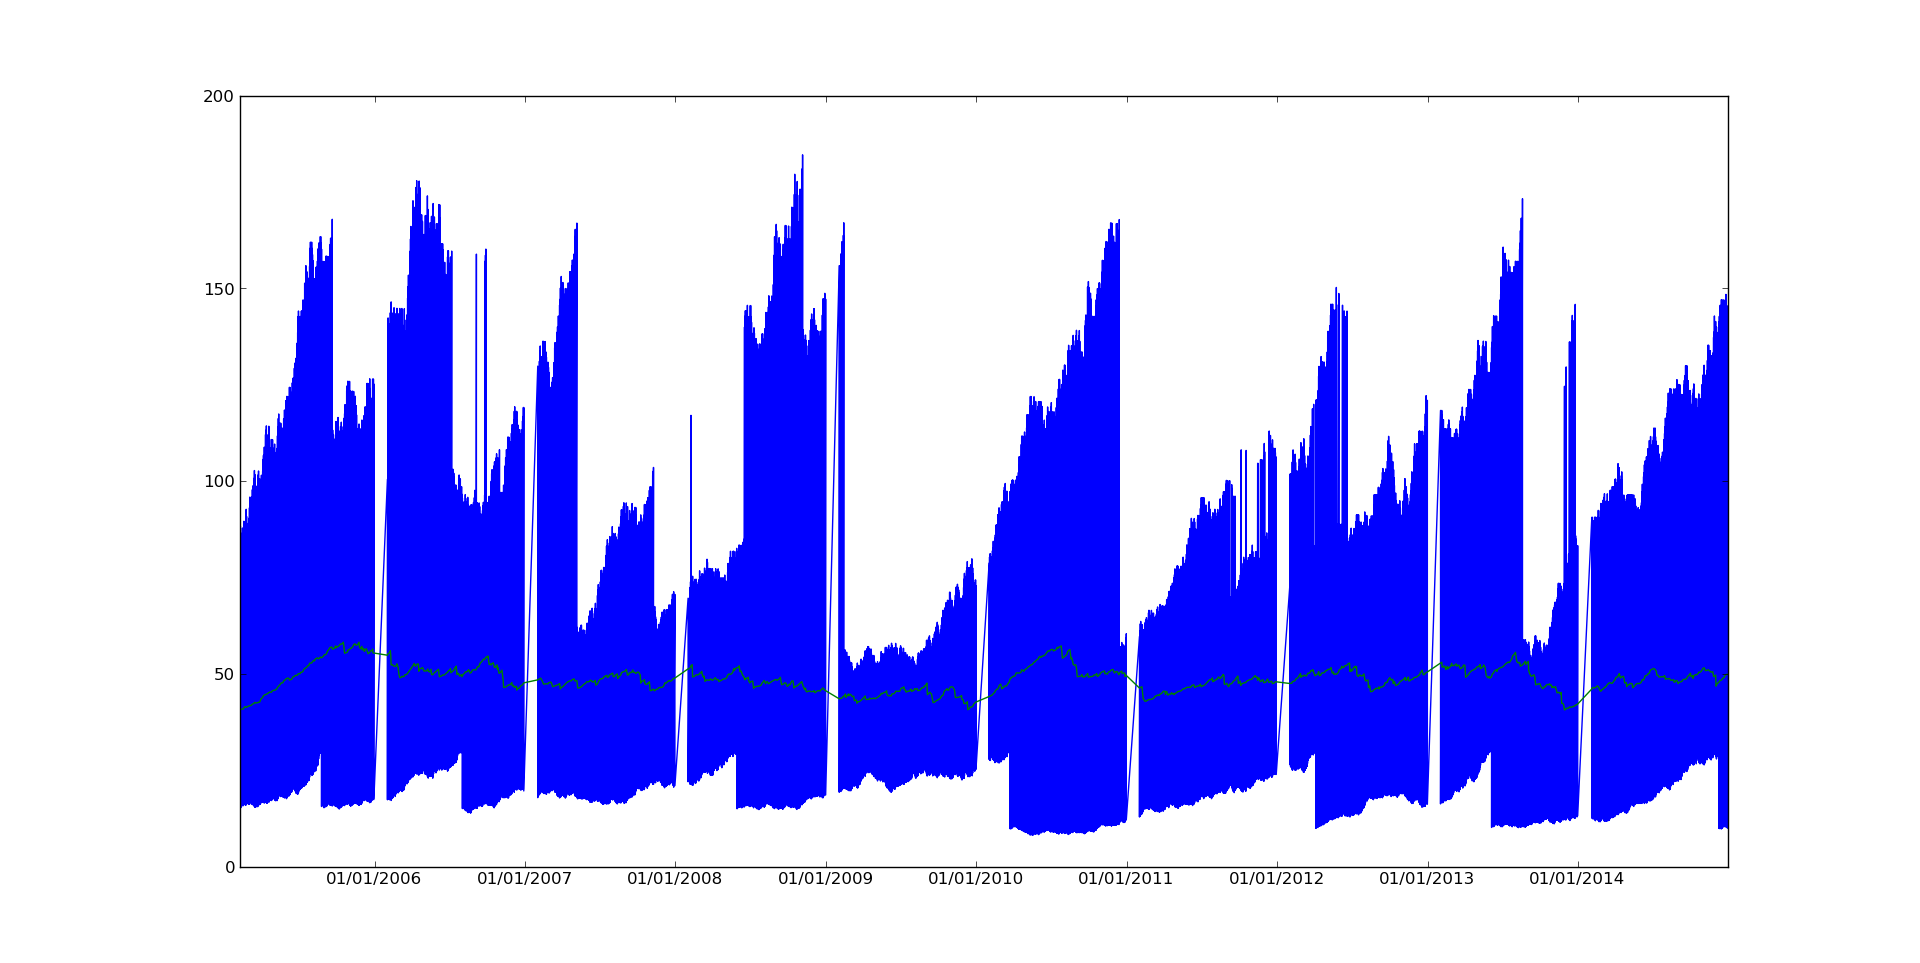
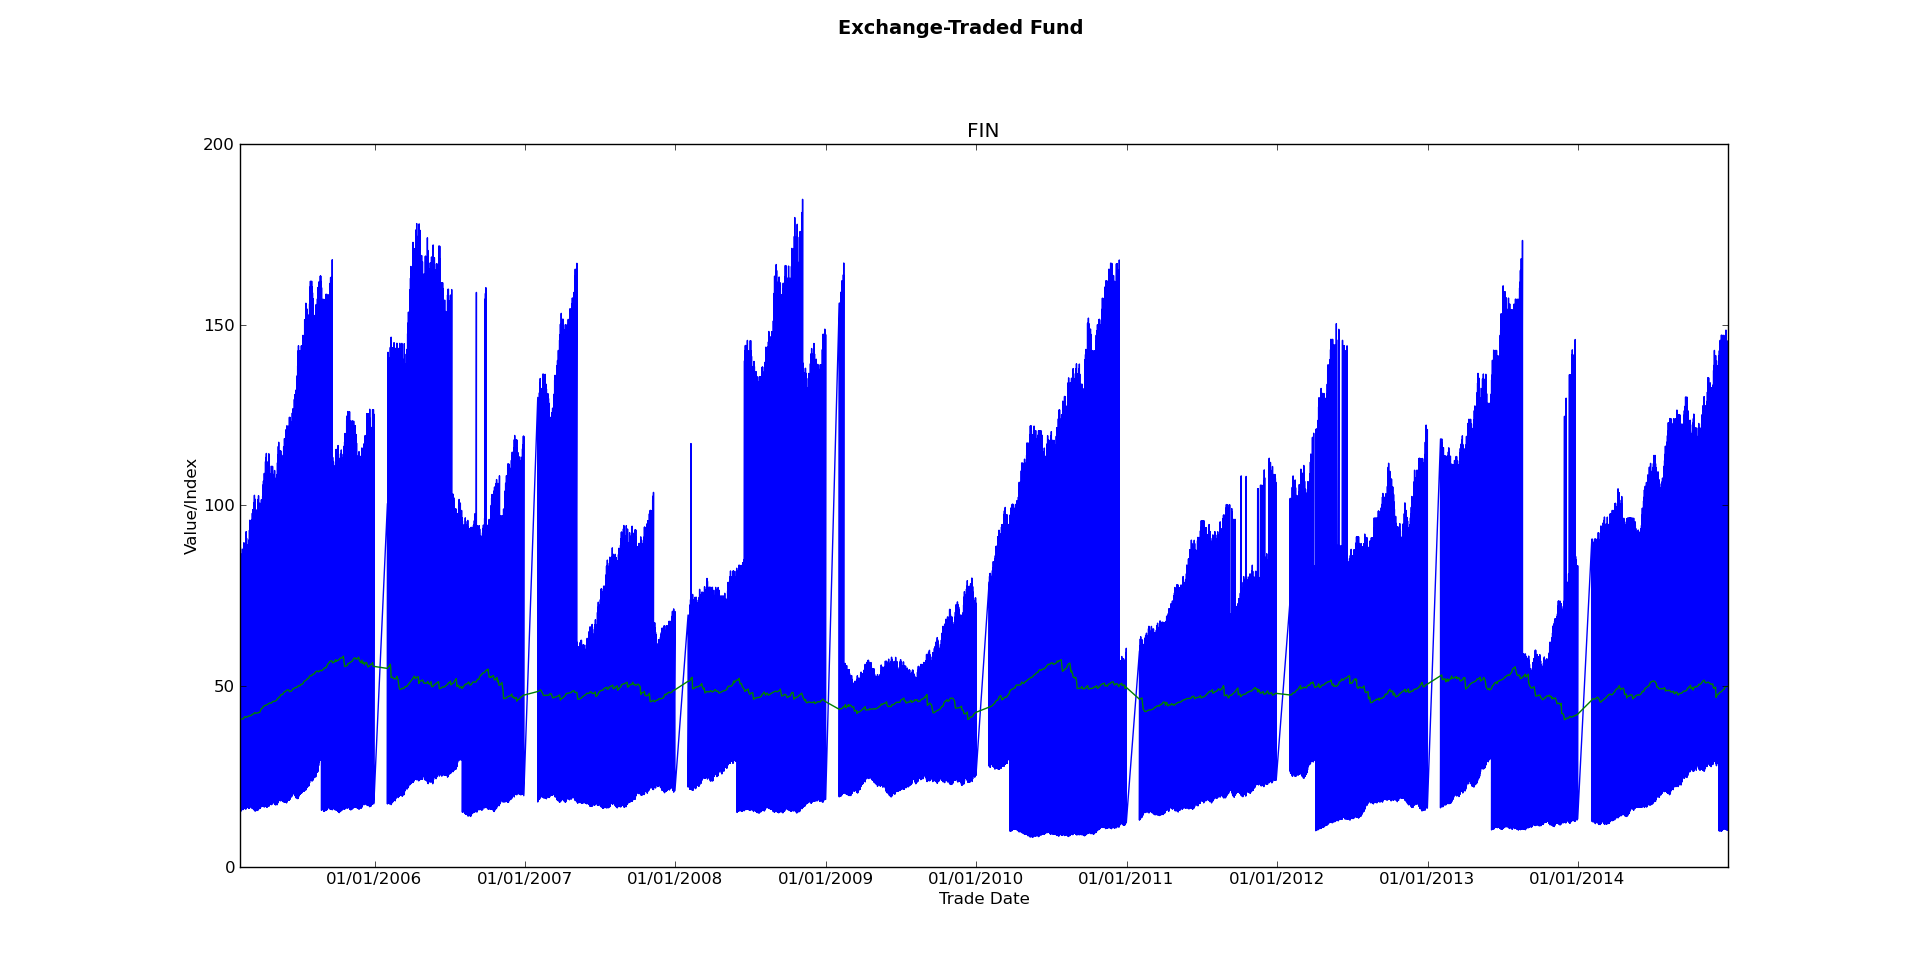
labels updated

diff --git a/etf_plot.py b/etf_plot.py
@@ -14,14 +14,14 @@ def plot(cursor):
 			date.append(item['TRADE_DATE'])
 			value.append(float(item['CLOSE_PRICE']))
 			index.append(float(item['ULYING_INDEX']))
-
-		plt.figure().suptitle('bold figure suptitle', fontsize=14, fontweight='bold')
-		ax = plt.figure().add_subplot(111)
-		plt.figure().subplots_adjust(top=0.85)
-		ax.set_title('axes title')
-
-		ax.set_xlabel('xlabel')
-		ax.set_ylabel('ylabel')
+		
+		fig = plt.figure()
+		fig.suptitle('Exchange-Traded Fund', fontsize=14, fontweight='bold')
+		ax = fig.add_subplot(111)
+		fig.subplots_adjust(top=0.85)
+		ax.set_title(etf_name)
+		ax.set_xlabel('Trade Date')
+		ax.set_ylabel('Value/Index')
 
 		plt.gca().xaxis.set_major_formatter(mdates.DateFormatter('%m/%d/%Y'))
 		plt.plot(date, value)
